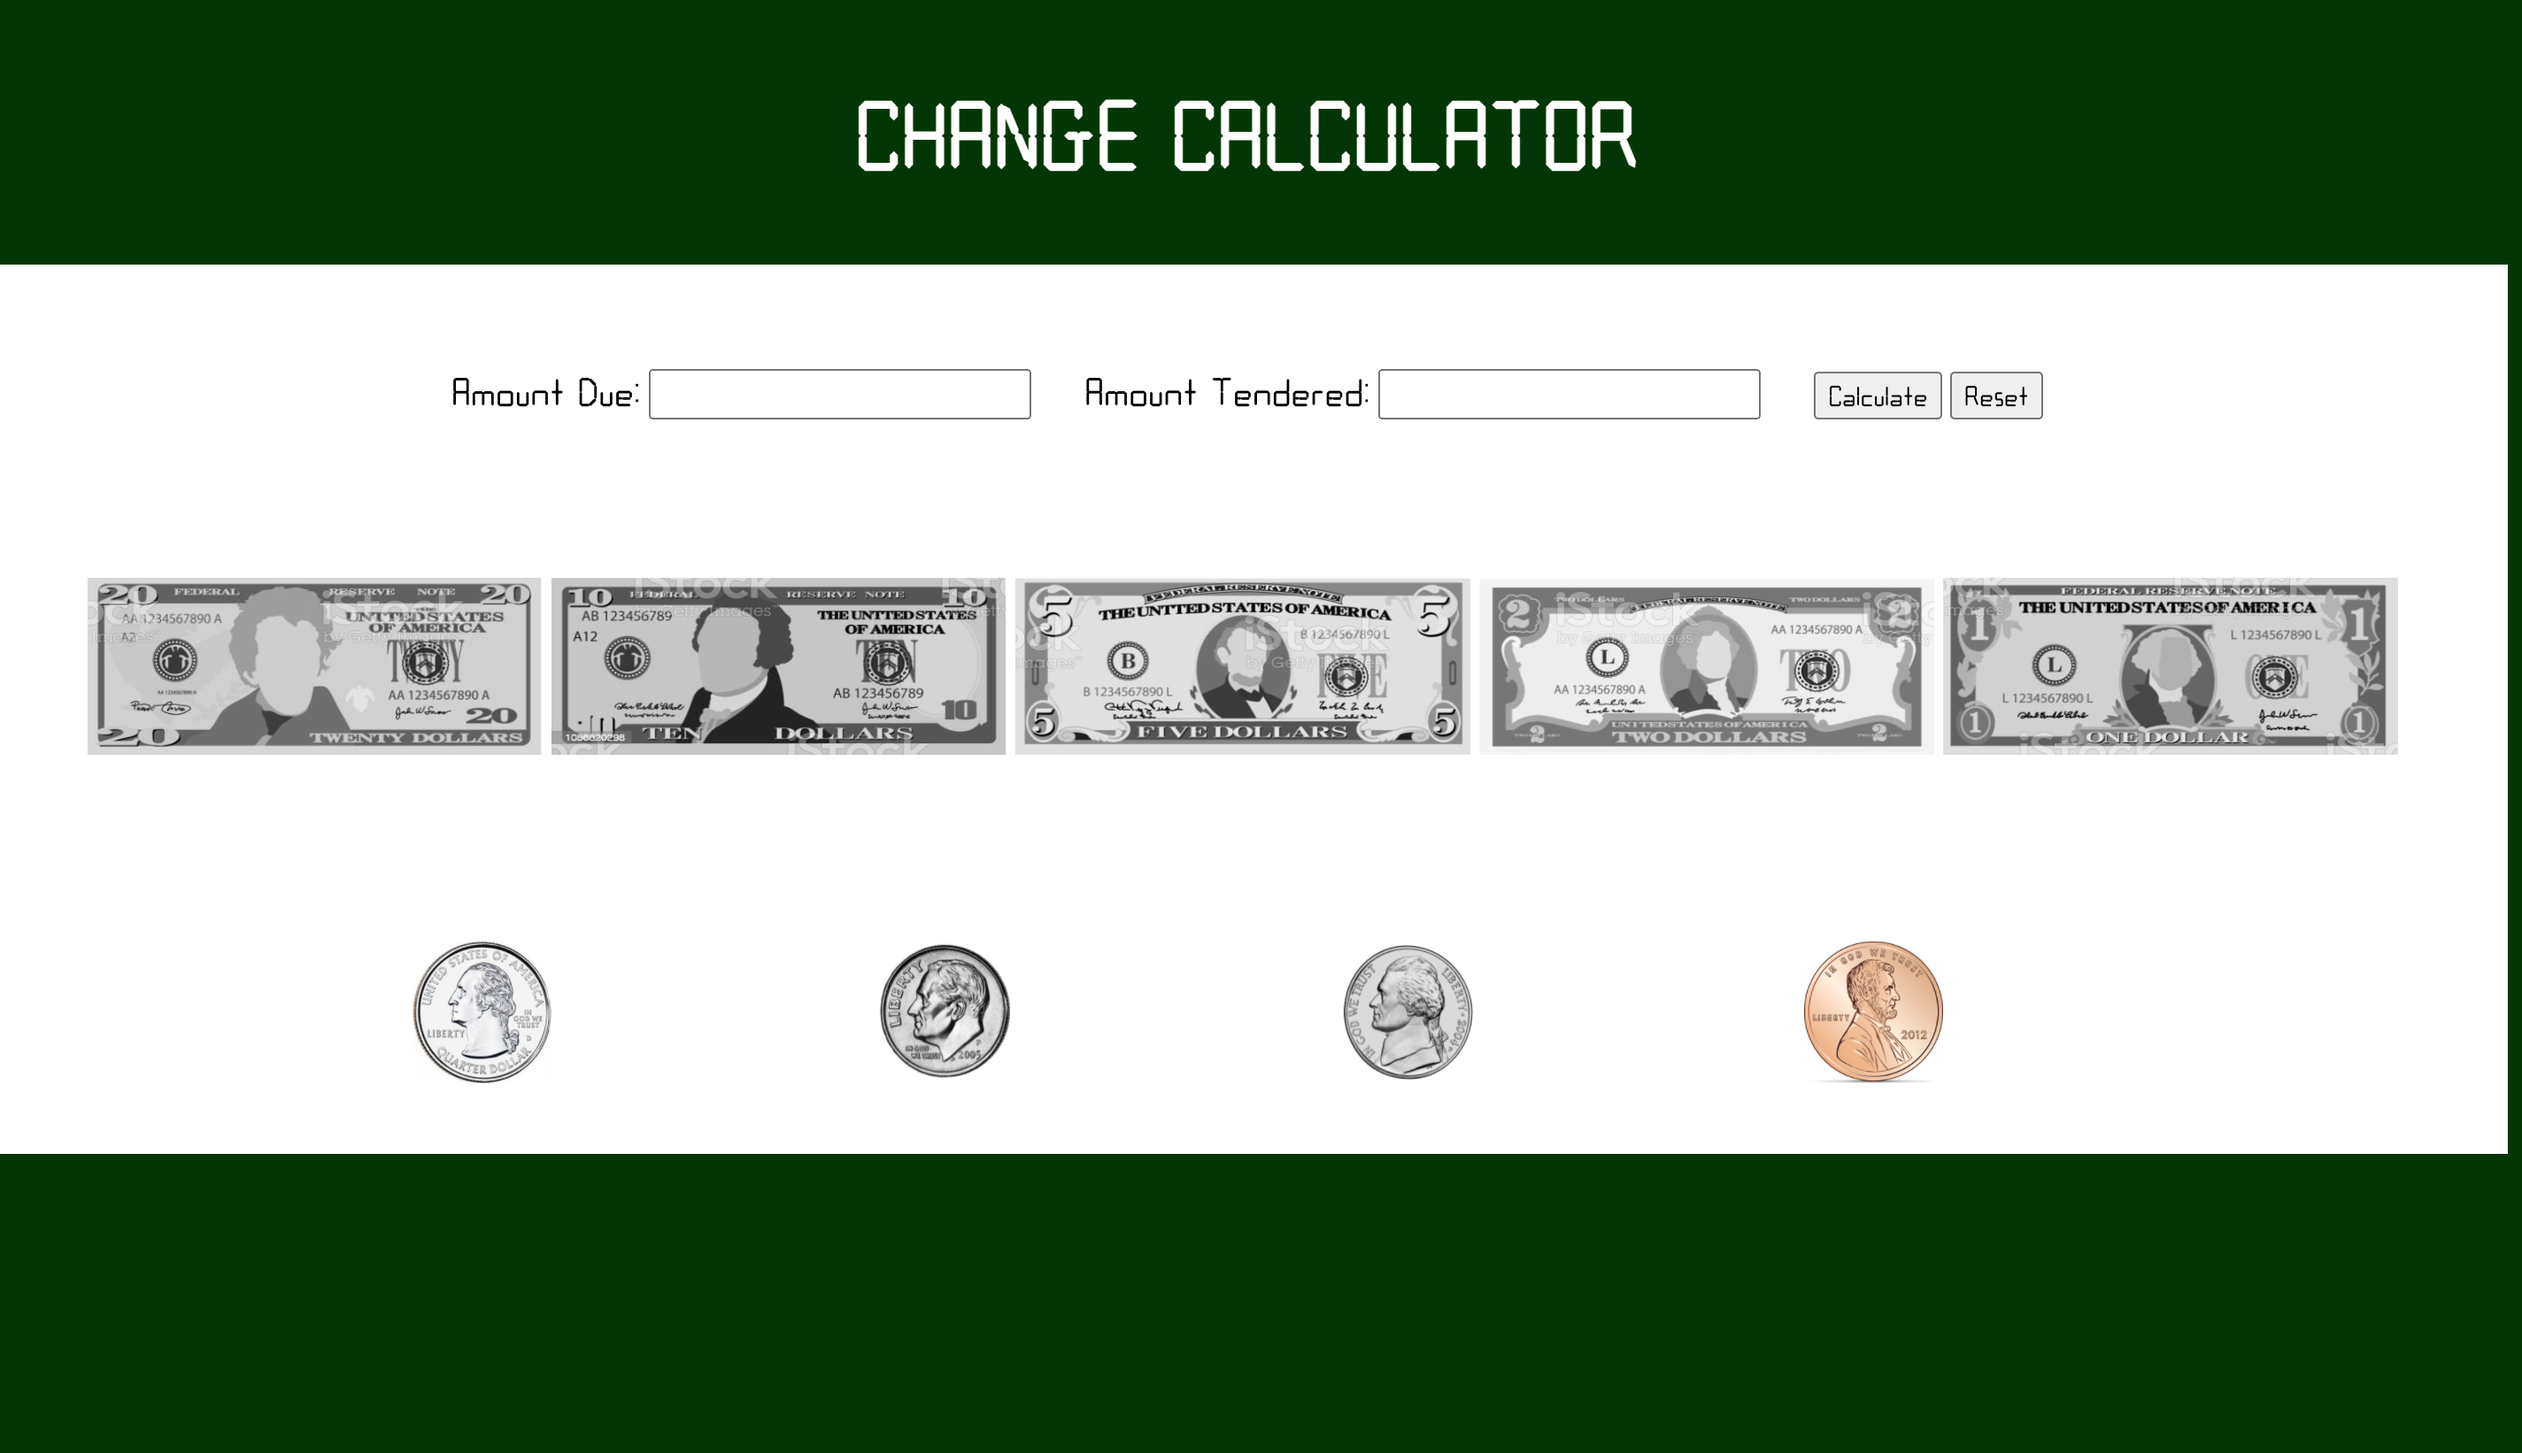
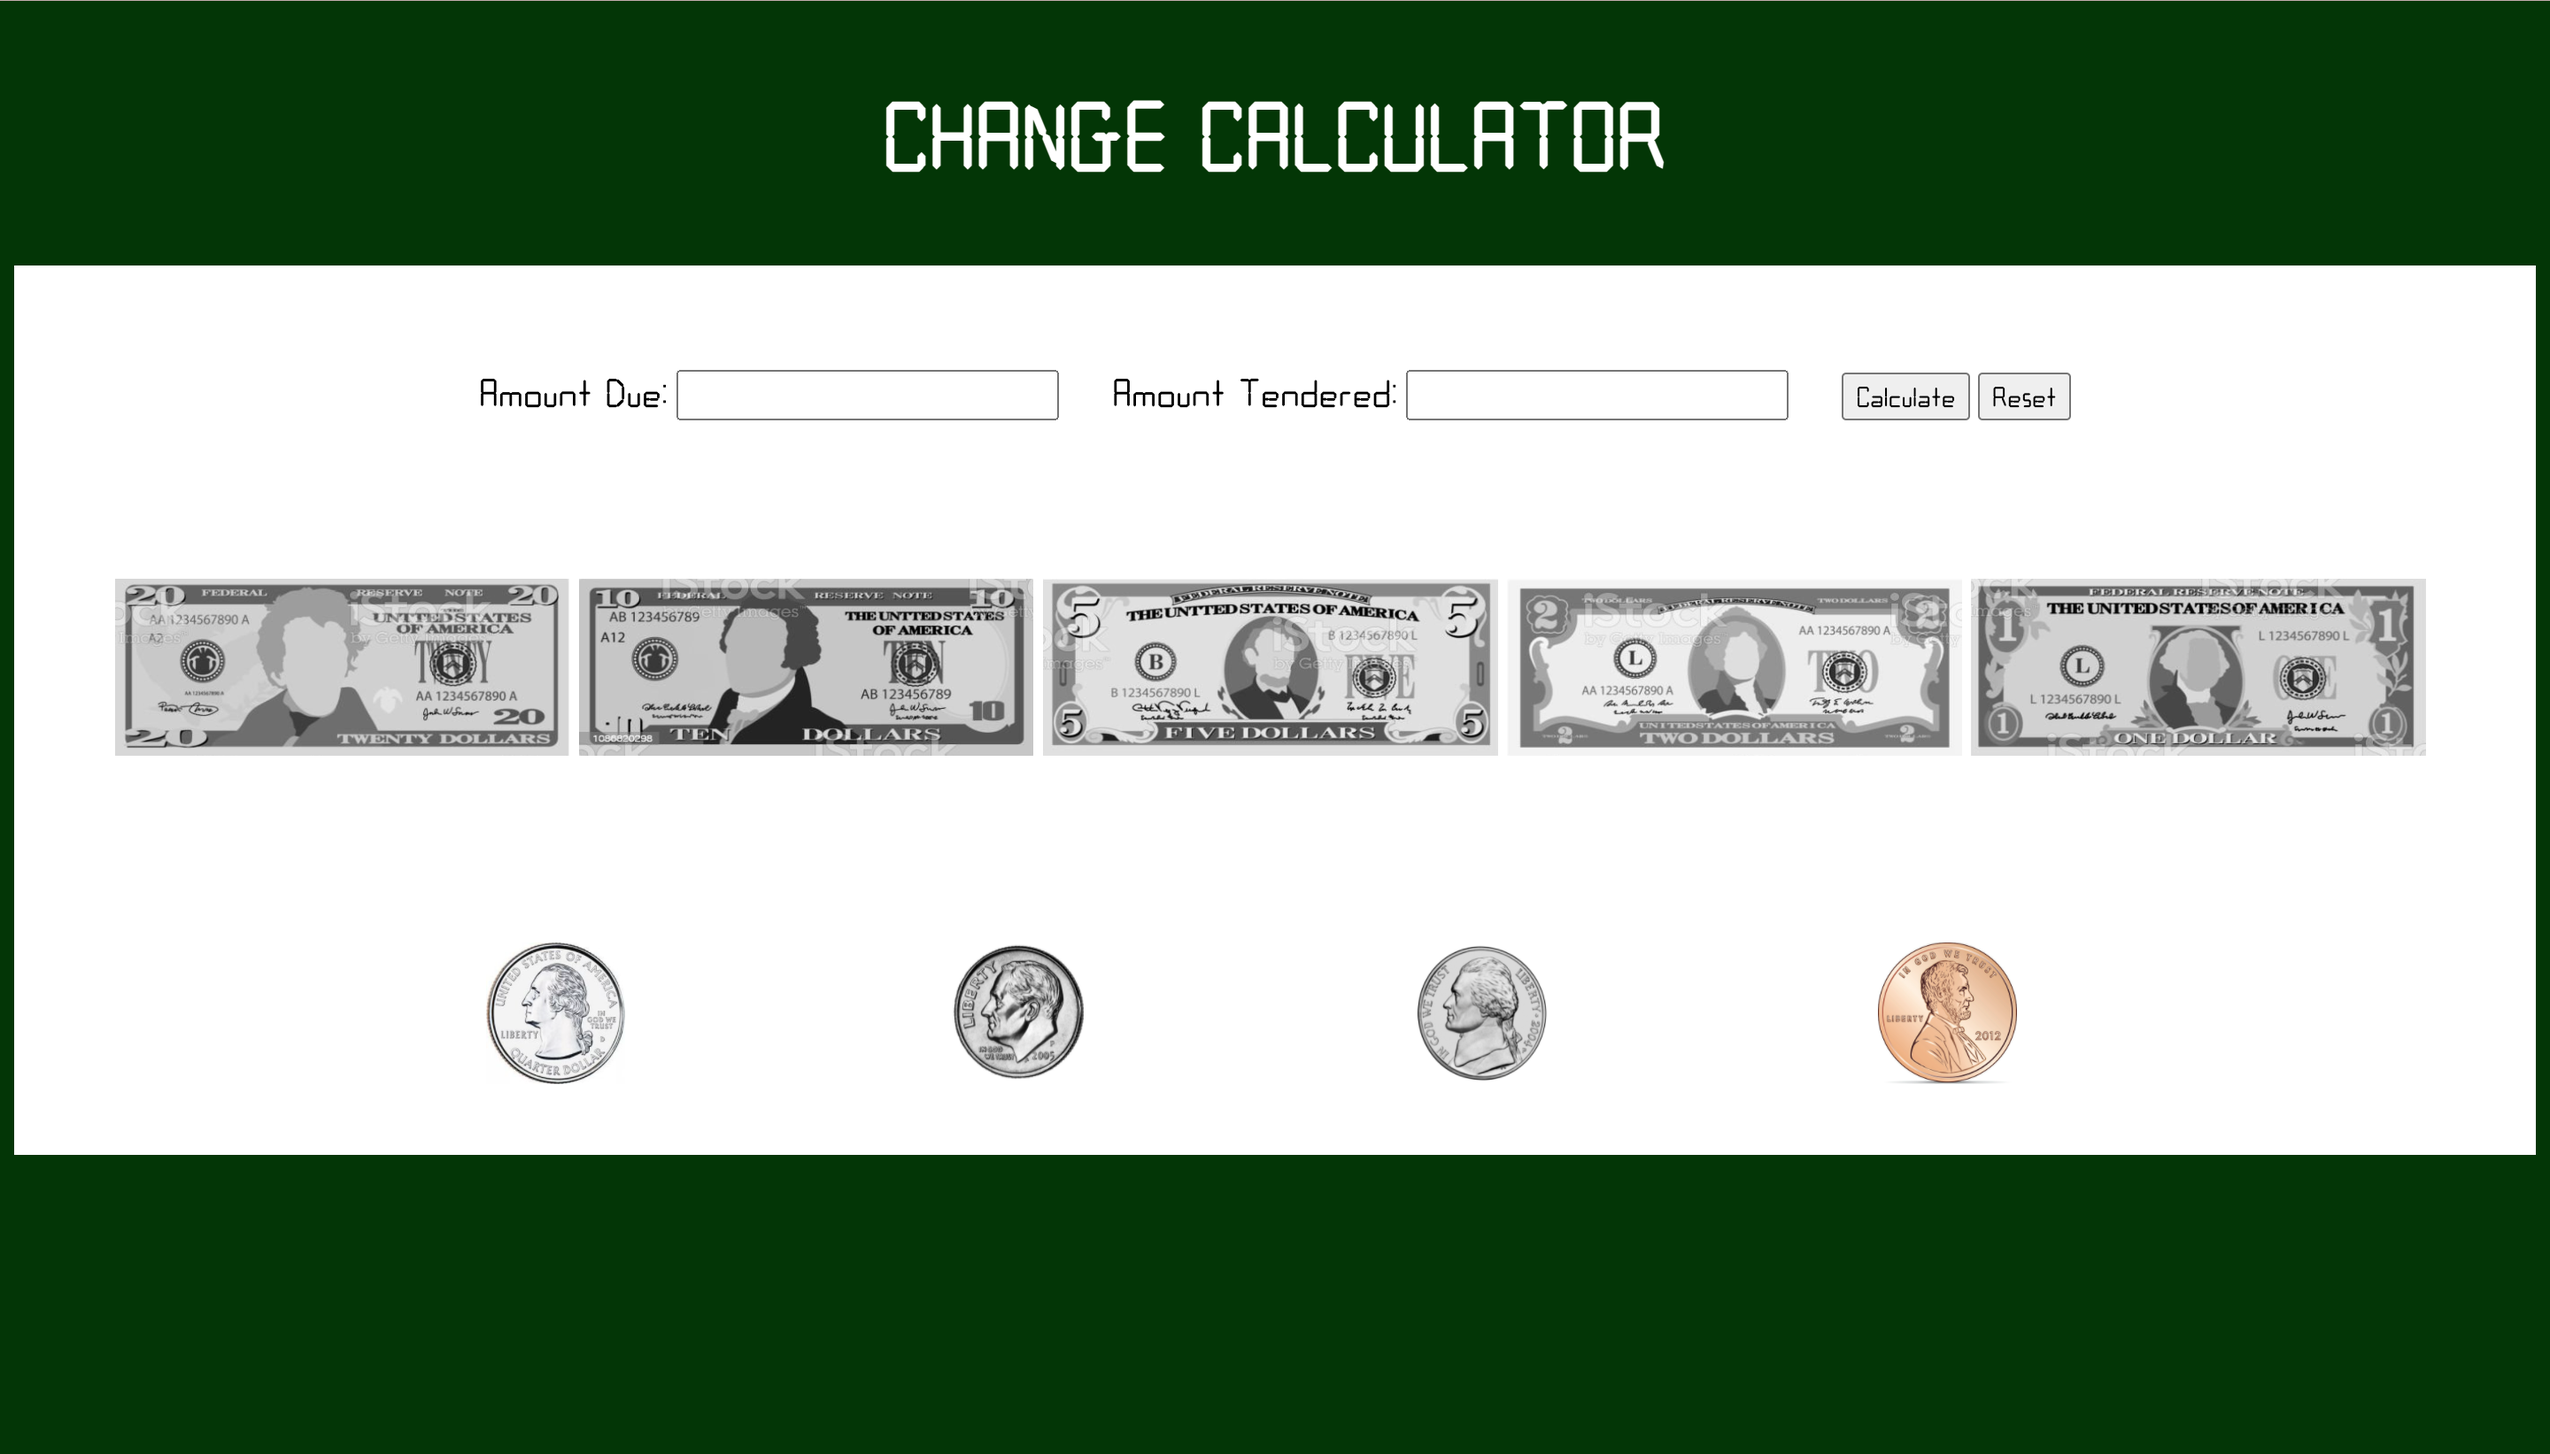
Update project photos and style.css

diff --git a/style.css b/style.css
@@ -64,7 +64,6 @@ button {
 .bill-output {
     text-align: center;
     font-size: 30px;
-    font: bolder;
 }
 
 .coin-row {
@@ -80,14 +79,14 @@ button {
 }
 
 .coin-item {
-    margin-left: 70%;
+    margin-left: 80%;
     height: 80px;
     width: 30%;
 }
 
 .coin-output {
-    margin-left: 70%;
+    margin-left: 85%;
     text-align: center;
     font-size: 30px;
-    font: bolder;
 }
+
